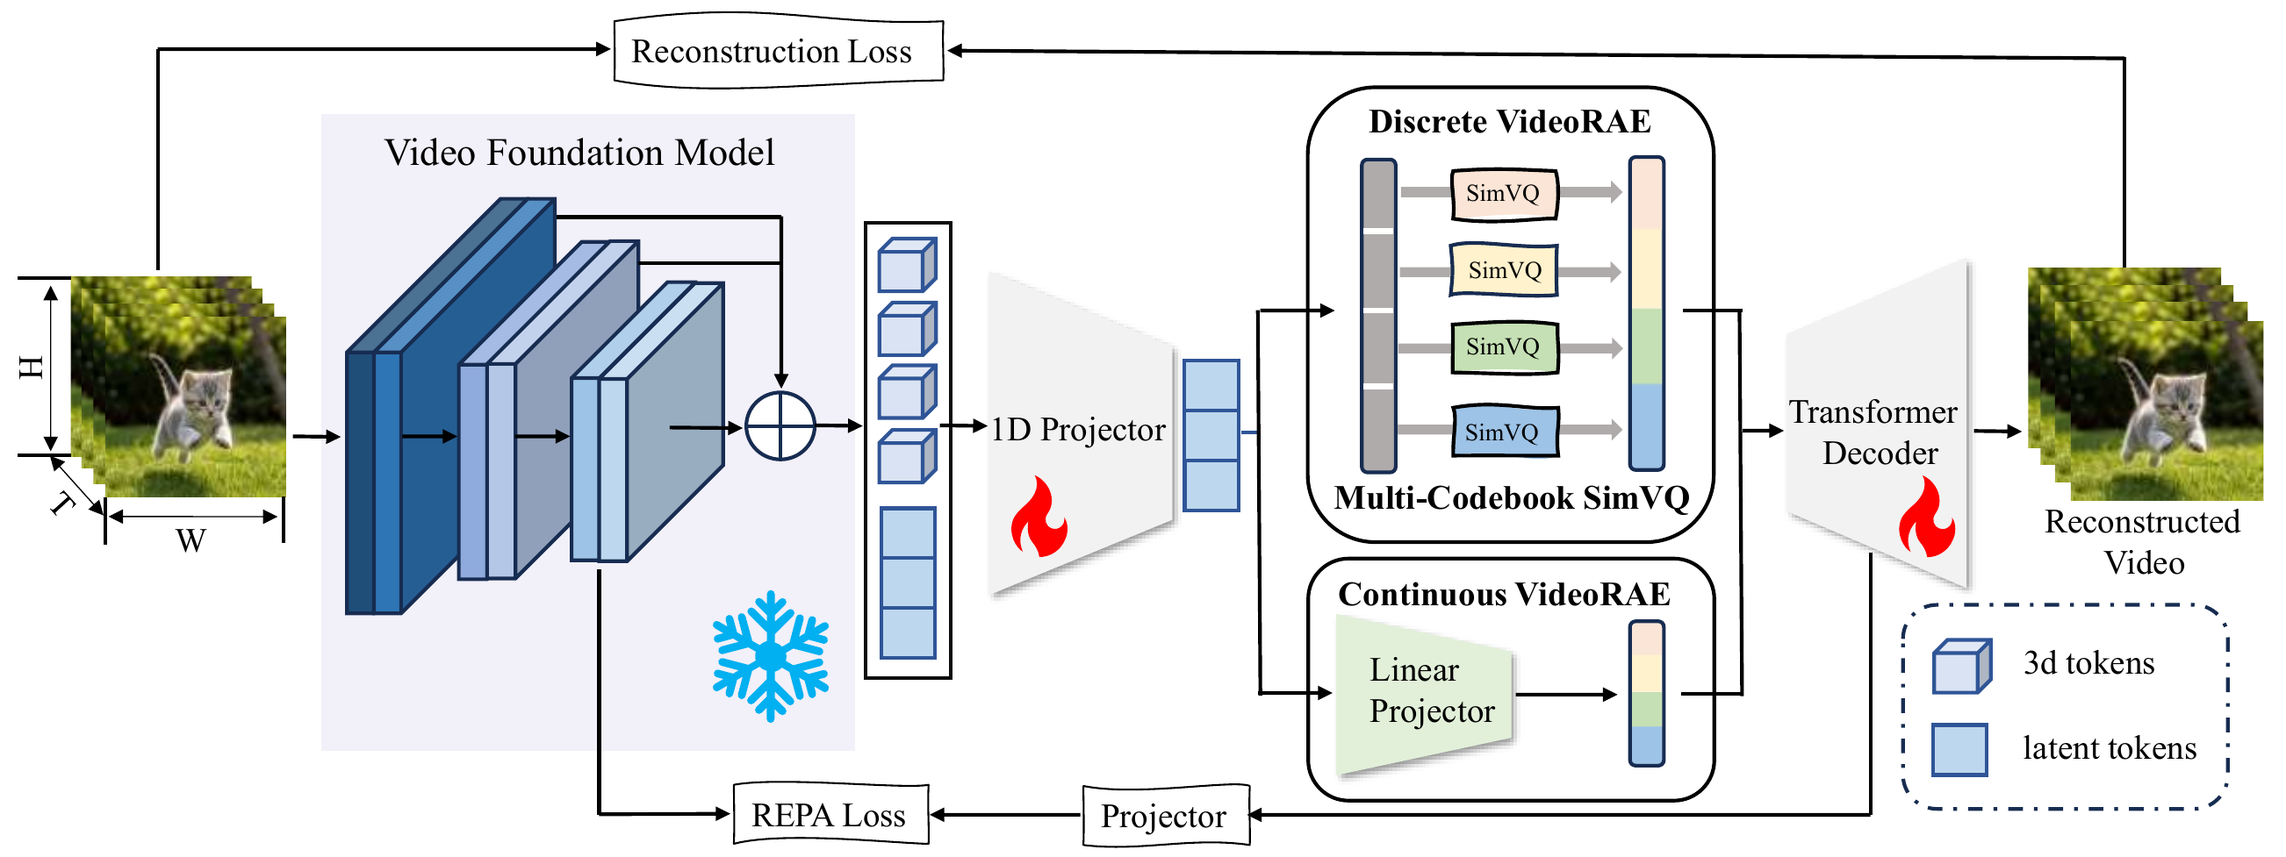
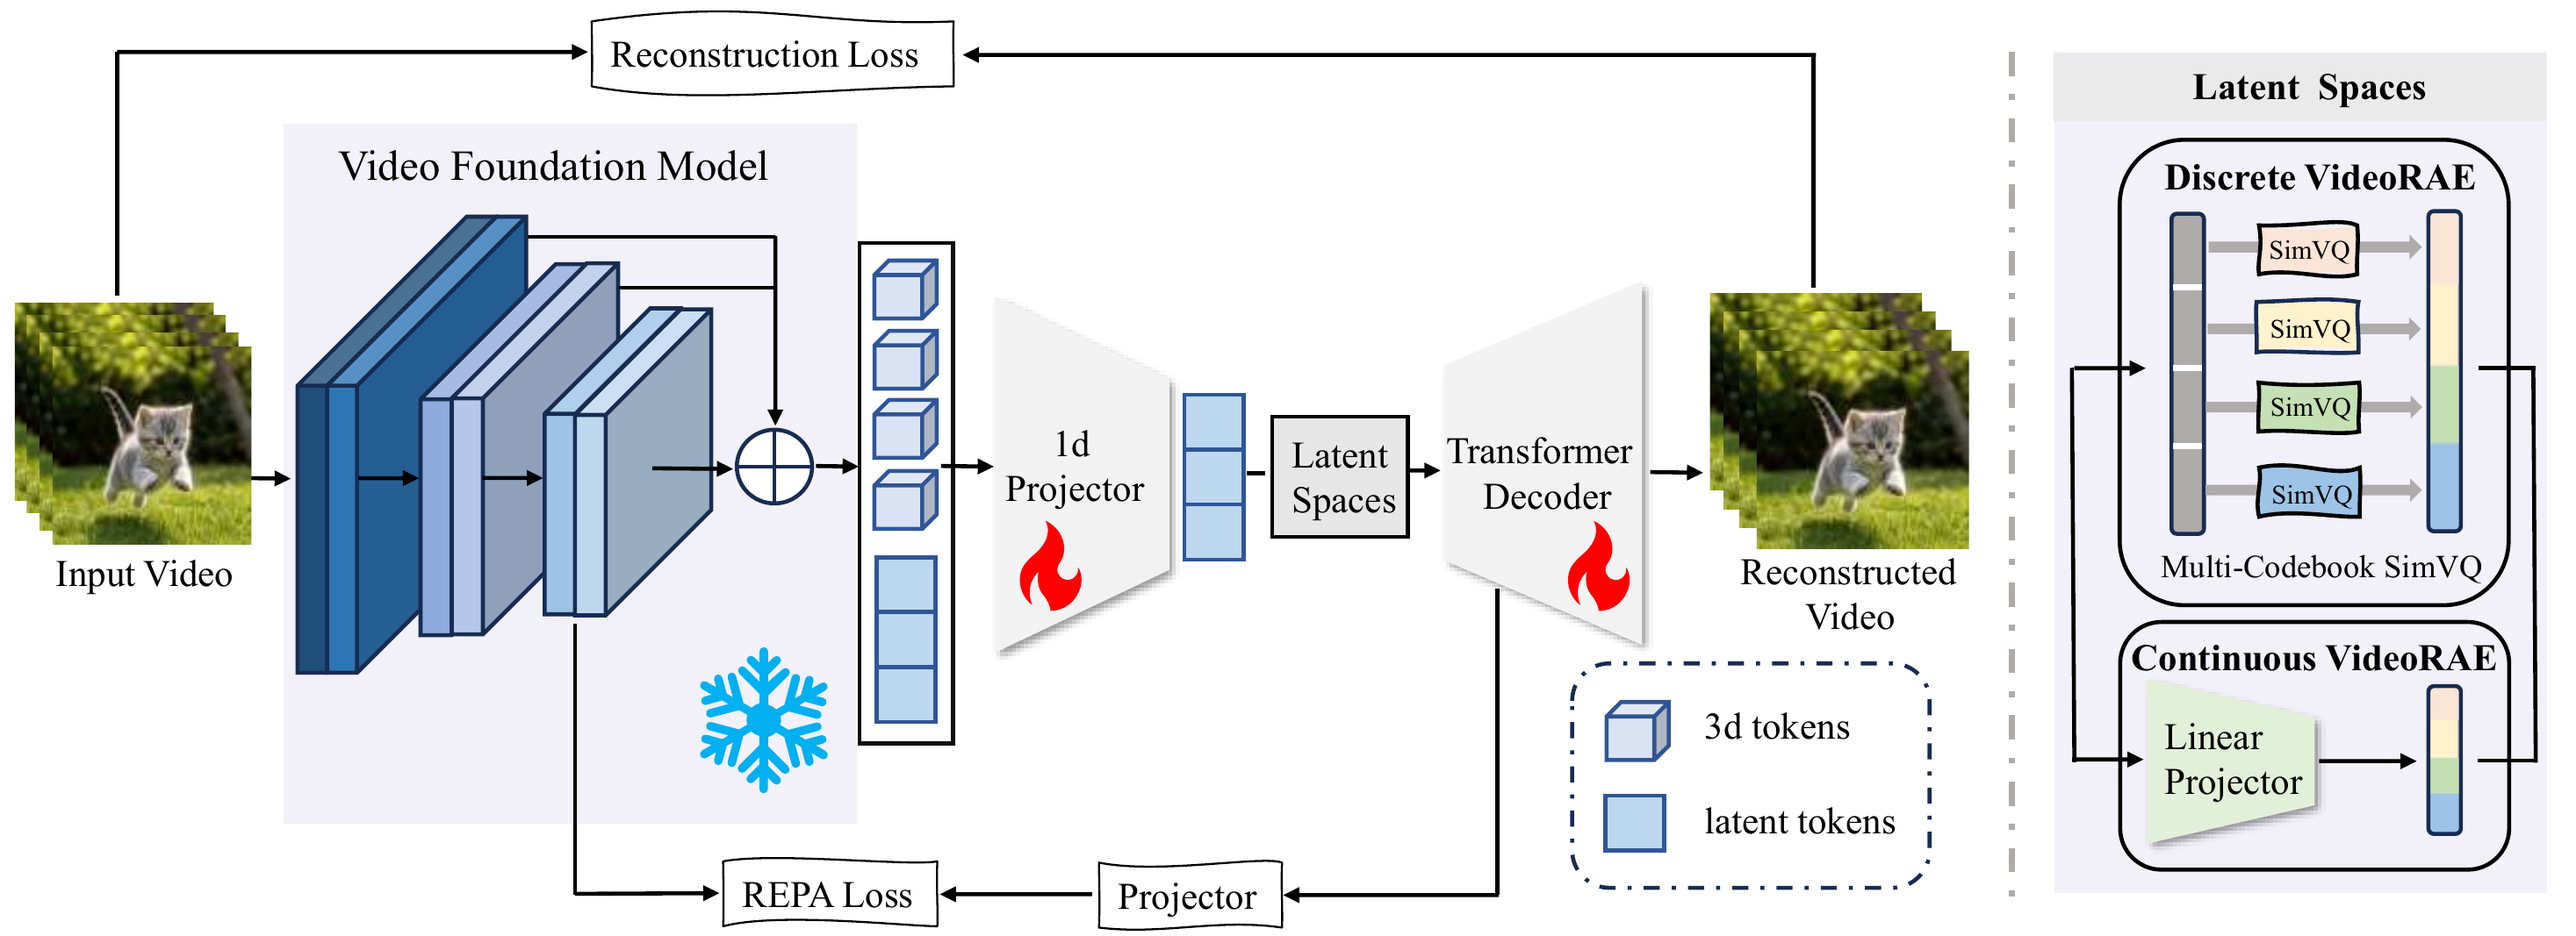
Update project page with new pipeline, result figures, and BibTeX.

diff --git a/index.html b/index.html
@@ -13,6 +13,8 @@
 
   <link rel="stylesheet" href="./static/css/bulma.min.css">
   <link rel="stylesheet" href="./static/css/fontawesome.all.min.css">
+  <link rel="stylesheet"
+        href="https://cdn.jsdelivr.net/gh/jpswalsh/academicons@1/css/academicons.min.css">
   <link rel="stylesheet" href="./static/css/index.css">
   <link rel="icon" type="image/png" sizes="32x32" href="./static/images/favicon.png?v=2">
   <link rel="icon" type="image/svg+xml" href="./static/images/favicon.svg?v=2">
@@ -85,6 +87,15 @@
 
           <div class="column has-text-centered">
             <div class="publication-links">
+              <span class="link-block">
+                <a href="https://arxiv.org/abs/2607.14088"
+                   class="external-link button is-normal is-rounded is-dark">
+                  <span class="icon">
+                      <i class="ai ai-arxiv"></i>
+                  </span>
+                  <span>arXiv</span>
+                </a>
+              </span>
               <span class="link-block">
                 <a href="https://github.com/zhxie0117/VideoRAE"
                    class="external-link button is-normal is-rounded is-dark">
@@ -222,14 +233,7 @@
   <div class="container is-max-desktop">
     <div class="columns is-centered">
       <div class="column is-full-width">
-        <h2 class="title is-3 has-text-centered">Video Examples</h2>
-        <div class="content has-text-justified">
-          <p class="has-text-centered">
-            Below we show class-to-video generation samples from our discrete AR model on UCF-101.
-          </p>
-        </div>
-
-        <h3 class="title is-4 has-text-centered subsection-title">Class-to-Video Generation</h3>
+        <h2 class="title is-3 has-text-centered">Class-to-Video Generation</h2>
         <div class="columns is-multiline is-centered video-example-grid">
           <div class="column is-half-mobile is-one-third-tablet is-3-desktop">
             <div class="example-gen-card">
@@ -237,9 +241,6 @@
                 <video class="example-gen-video" autoplay muted loop playsinline preload="metadata">
                   <source src="./static/videos/samples/sample_04569_cls36.mp4" type="video/mp4">
                 </video>
-              </div>
-              <div class="example-gen-meta">
-                <div class="example-gen-label">Class 36</div>
               </div>
             </div>
           </div>
@@ -250,9 +251,6 @@
                   <source src="./static/videos/samples/sample_04602_cls19.mp4" type="video/mp4">
                 </video>
               </div>
-              <div class="example-gen-meta">
-                <div class="example-gen-label">Class 19</div>
-              </div>
             </div>
           </div>
           <div class="column is-half-mobile is-one-third-tablet is-3-desktop">
@@ -261,9 +259,6 @@
                 <video class="example-gen-video" autoplay muted loop playsinline preload="metadata">
                   <source src="./static/videos/samples/sample_07431_cls36.mp4" type="video/mp4">
                 </video>
-              </div>
-              <div class="example-gen-meta">
-                <div class="example-gen-label">Class 36</div>
               </div>
             </div>
           </div>
@@ -274,9 +269,6 @@
                   <source src="./static/videos/samples/sample_07497_cls1.mp4" type="video/mp4">
                 </video>
               </div>
-              <div class="example-gen-meta">
-                <div class="example-gen-label">Class 1</div>
-              </div>
             </div>
           </div>
           <div class="column is-half-mobile is-one-third-tablet is-3-desktop">
@@ -285,9 +277,6 @@
                 <video class="example-gen-video" autoplay muted loop playsinline preload="metadata">
                   <source src="./static/videos/samples/sample_07688_cls22.mp4" type="video/mp4">
                 </video>
-              </div>
-              <div class="example-gen-meta">
-                <div class="example-gen-label">Class 22</div>
               </div>
             </div>
           </div>
@@ -298,9 +287,6 @@
                   <source src="./static/videos/samples/sample_07705_cls62.mp4" type="video/mp4">
                 </video>
               </div>
-              <div class="example-gen-meta">
-                <div class="example-gen-label">Class 62</div>
-              </div>
             </div>
           </div>
           <div class="column is-half-mobile is-one-third-tablet is-3-desktop">
@@ -309,9 +295,6 @@
                 <video class="example-gen-video" autoplay muted loop playsinline preload="metadata">
                   <source src="./static/videos/samples/sample_08265_cls11.mp4" type="video/mp4">
                 </video>
-              </div>
-              <div class="example-gen-meta">
-                <div class="example-gen-label">Class 11</div>
               </div>
             </div>
           </div>
@@ -322,9 +305,6 @@
                   <source src="./static/videos/samples/sample_08556_cls1.mp4" type="video/mp4">
                 </video>
               </div>
-              <div class="example-gen-meta">
-                <div class="example-gen-label">Class 1</div>
-              </div>
             </div>
           </div>
           <div class="column is-half-mobile is-one-third-tablet is-3-desktop">
@@ -333,9 +313,6 @@
                 <video class="example-gen-video" autoplay muted loop playsinline preload="metadata">
                   <source src="./static/videos/samples/sample_08685_cls62.mp4" type="video/mp4">
                 </video>
-              </div>
-              <div class="example-gen-meta">
-                <div class="example-gen-label">Class 62</div>
               </div>
             </div>
           </div>
@@ -346,9 +323,6 @@
                   <source src="./static/videos/samples/sample_08699_cls0.mp4" type="video/mp4">
                 </video>
               </div>
-              <div class="example-gen-meta">
-                <div class="example-gen-label">Class 0</div>
-              </div>
             </div>
           </div>
           <div class="column is-half-mobile is-one-third-tablet is-3-desktop">
@@ -357,9 +331,6 @@
                 <video class="example-gen-video" autoplay muted loop playsinline preload="metadata">
                   <source src="./static/videos/samples/sample_08876_cls94.mp4" type="video/mp4">
                 </video>
-              </div>
-              <div class="example-gen-meta">
-                <div class="example-gen-label">Class 94</div>
               </div>
             </div>
           </div>
@@ -370,14 +341,61 @@
                   <source src="./static/videos/samples/sample_09996_cls99.mp4" type="video/mp4">
                 </video>
               </div>
-              <div class="example-gen-meta">
-                <div class="example-gen-label">Class 99</div>
-              </div>
             </div>
           </div>
         </div>
       </div>
     </div>
+  </div>
+</section>
+
+
+<section class="section">
+  <div class="container is-max-desktop">
+    <div class="columns is-centered">
+      <div class="column is-full-width">
+        <h2 class="title is-3 has-text-centered">Reconstruction Results</h2>
+        <div class="columns is-centered is-variable is-5">
+          <div class="column">
+            <div class="result-figure-card">
+              <img src="./static/images/reconstruction_results_1.png" alt="Reconstruction results figure 1." class="result-figure-image"/>
+            </div>
+          </div>
+          <div class="column">
+            <div class="result-figure-card">
+              <img src="./static/images/reconstruction_results_2.png" alt="Reconstruction results figure 2." class="result-figure-image"/>
+            </div>
+          </div>
+        </div>
+      </div>
+    </div>
+  </div>
+</section>
+
+
+<section class="section">
+  <div class="container is-max-desktop">
+    <div class="columns is-centered">
+      <div class="column is-full-width">
+        <h2 class="title is-3 has-text-centered">Generation Results</h2>
+        <div class="result-figure-card result-figure-single">
+          <img src="./static/images/generation_results.png" alt="Generation results figure." class="result-figure-image"/>
+        </div>
+      </div>
+    </div>
+  </div>
+</section>
+
+
+<section class="section" id="bibtex">
+  <div class="container is-max-desktop content">
+    <h2 class="title">BibTeX</h2>
+    <pre><code>@article{xie2026videorae,
+  title={VideoRAE: Taming Video Foundation Models for Generative Modeling via Representation Autoencoders},
+  author={Xie, Zhihao and Wu, Junfeng and Hu, Xinting and Huang, Junchao and Jiang, Li},
+  journal={arXiv preprint arXiv:2607.14088},
+  year={2026}
+}</code></pre>
   </div>
 </section>
 

diff --git a/static/css/index.css b/static/css/index.css
@@ -76,11 +76,6 @@ body {
   font-family: 'Google Sans', sans-serif;
 }
 
-.subsection-title {
-  margin-top: 1.5rem;
-  margin-bottom: 1.25rem;
-}
-
 .video-example-grid {
   margin-top: 0.5rem;
 }
@@ -120,16 +115,25 @@ body {
   display: block;
 }
 
-.example-gen-meta {
-  padding: 10px 10px 12px;
-  border-top: 1px solid rgba(0, 0, 0, 0.06);
-  text-align: center;
+.result-figure-card {
+  background: #ffffff;
+  border: 1px solid rgba(0, 0, 0, 0.08);
+  border-radius: 12px;
+  padding: 12px;
+  box-shadow: 0 2px 10px rgba(0, 0, 0, 0.04);
 }
 
-.example-gen-label {
-  font-size: 0.85rem;
-  font-weight: 600;
-  color: #333;
+.result-figure-single {
+  max-width: 960px;
+  margin: 0 auto;
+}
+
+.result-figure-image {
+  width: 100%;
+  height: auto;
+  display: block;
+  border-radius: 8px;
+  background: #fff;
 }
 
 @media (max-width: 768px) {
